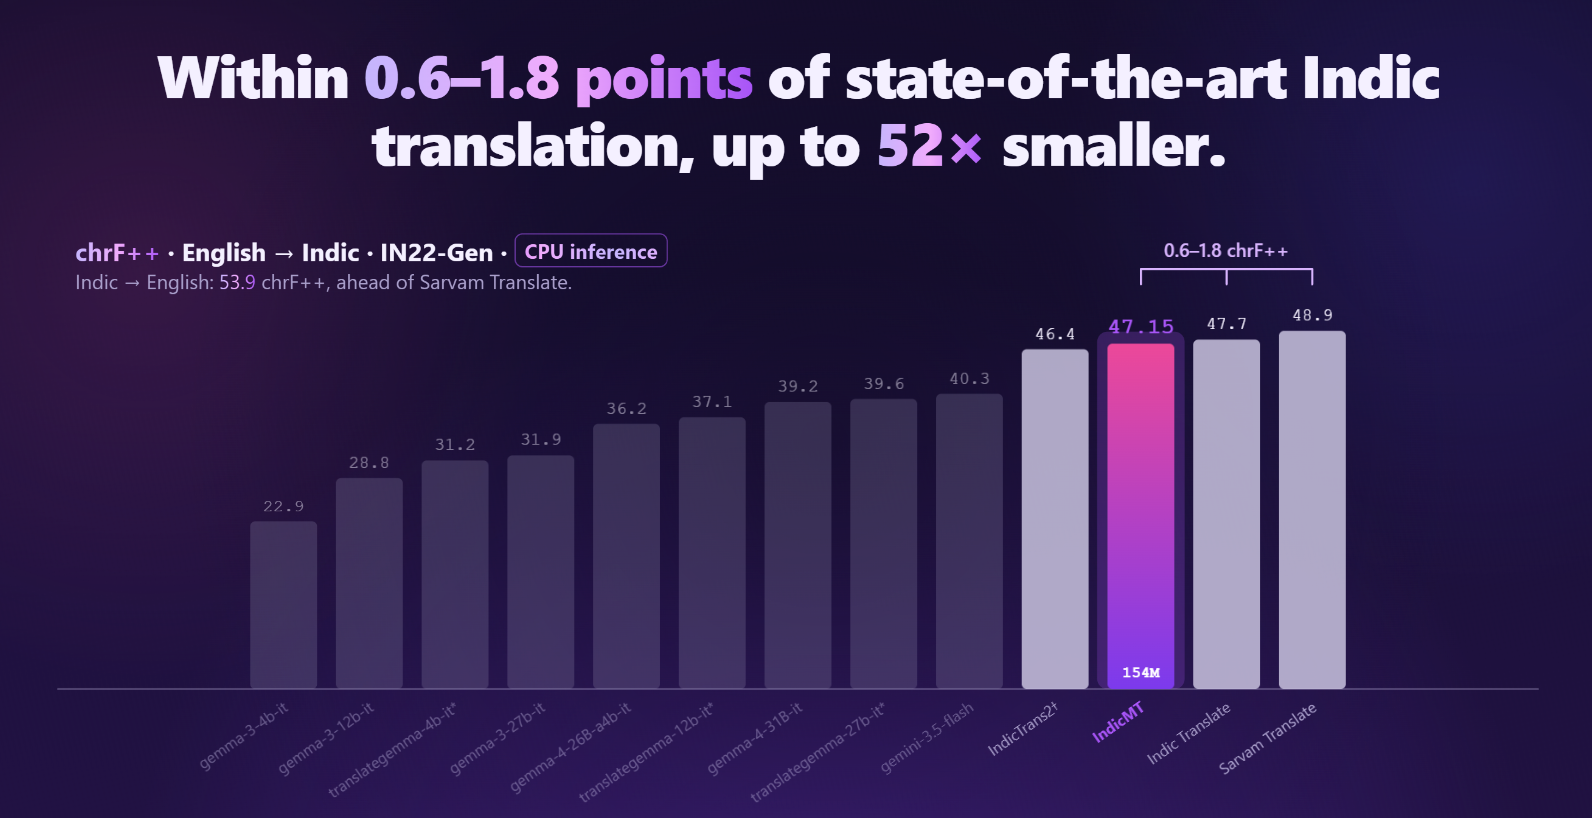
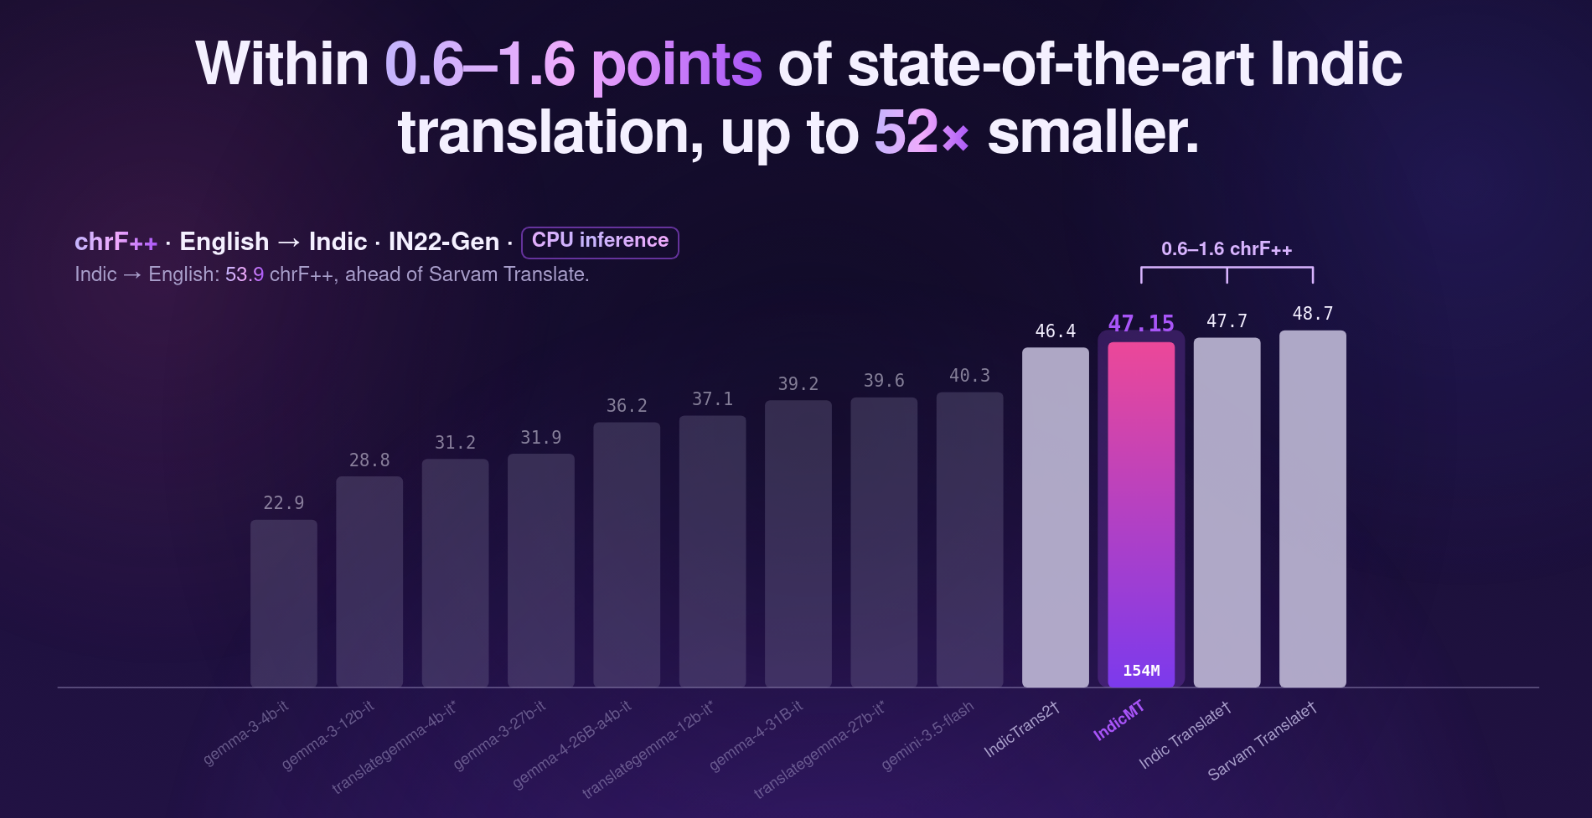
Report our runs of Indic Translate and Sarvam Translate

diff --git a/docs/evaluation.md b/docs/evaluation.md
@@ -91,34 +91,49 @@ single seed and have not been significance-tested. The release model was kept.
 
 ## 5. Against published systems (IN22-Gen only)
 
-Baselines are the published chrF++ scores from the `bodhan-ai/indic-translate` model card (read on 2026-09-19),
-except IndicTrans2, which we re-ran (section 6). The card's scores are **sentence-level with greedy decoding**. Ours
-and the re-run IndicTrans2 scores are **corpus-level with beam 5**. So the comparison is indicative, not exact. The
-card has no IN22-Conv baselines. The table is sorted by the mean of the two directions. A star marks a system that
+IndicTrans2, Indic Translate and Sarvam Translate are **our own runs** on both test sets (section 6 for IndicTrans2;
+Indic Translate and Sarvam Translate with vLLM, greedy decoding and each model's documented prompt), scored exactly like
+IndicMT: corpus-level chrF++, the same references, macro over 22 languages. **All other baselines are the published
+chrF++ scores from the `bodhan-ai/indic-translate` model page** (read on 2026-09-19), which are **sentence-level with
+greedy decoding** on IN22-Gen only, so the comparison with those rows is indicative, not exact. IndicMT is the
+CTranslate2 float32 model (beam 5). The table is sorted by the mean of the two directions. A star marks a system that
 covers only 16 of the 22 languages.
 
-| Rank | Model | en→xx | xx→en | Mean | Parameters |
-|---|---|---|---|---|---|
-| 1 | IndicTrans2 † | 46.39 | 62.48 | 54.44 | 1.1B |
-| 2 | Indic Translate | 47.70 | 60.40 | 54.05 | 7.94B |
-| 3 | gemini-3.5-flash | 40.30 | 66.60 | 53.45 | undisclosed |
-| 4 | Sarvam Translate | 48.90 | 52.40 | 50.65 | 4B |
-| 5 | **IndicMT (release model)** | **46.95** | **53.69** | **50.32** | 0.154B |
-| 6 | gemma-4-31B-it | 39.20 | 59.60 | 49.40 | 30.7B |
-| 7 | translategemma-27b-it * | 39.60 | 58.50 | 49.05 | 27B |
-| 8 | gemma-4-26B-a4b-it | 36.20 | 56.60 | 46.40 | 25.2B |
-| 9 | translategemma-12b-it * | 37.10 | 55.00 | 46.05 | 12B |
-| 10 | gemma-3-27b-it | 31.90 | 55.50 | 43.70 | 27.43B |
-| 11 | gemma-3-12b-it | 28.80 | 53.20 | 41.00 | 12.19B |
-| 12 | translategemma-4b-it * | 31.20 | 49.20 | 40.20 | 4B |
-| 13 | gemma-3-4b-it | 22.90 | 47.10 | 35.00 | 4.3B |
+| Rank | Model | en→xx | xx→en | Mean | Parameters | Source |
+|---|---|---|---|---|---|---|
+| 1 | IndicTrans2 1B | 46.39 | 62.48 | 54.44 | 1.1B | our run |
+| 2 | Indic Translate | 47.73 | 60.33 | 54.03 | 7.94B | our run |
+| 3 | gemini-3.5-flash | 40.30 | 66.60 | 53.45 | undisclosed | model page |
+| 4 | **IndicMT (release model)** | **47.15** | **53.87** | **50.51** | 0.154B | our run |
+| 5 | Sarvam Translate | 48.74 | 51.82 | 50.28 | 4B | our run |
+| 6 | gemma-4-31B-it | 39.20 | 59.60 | 49.40 | 30.7B | model page |
+| 7 | translategemma-27b-it * | 39.60 | 58.50 | 49.05 | 27B | model page |
+| 8 | gemma-4-26B-a4b-it | 36.20 | 56.60 | 46.40 | 25.2B | model page |
+| 9 | translategemma-12b-it * | 37.10 | 55.00 | 46.05 | 12B | model page |
+| 10 | gemma-3-27b-it | 31.90 | 55.50 | 43.70 | 27.43B | model page |
+| 11 | gemma-3-12b-it | 28.80 | 53.20 | 41.00 | 12.19B | model page |
+| 12 | translategemma-4b-it * | 31.20 | 49.20 | 40.20 | 4B | model page |
+| 13 | gemma-3-4b-it | 22.90 | 47.10 | 35.00 | 4.3B | model page |
 
-† Re-run by us with our protocol (beam 5, corpus-level chrF++). The model card lists 48.60 / 62.80.
+The model page lists 48.6 / 62.8 for IndicTrans2, 47.7 / 60.4 for Indic Translate and 48.9 / 52.4 for Sarvam
+Translate; under our protocol these are 46.39 / 62.48, 47.73 / 60.33 and 48.74 / 51.82.
 
-IndicMT ranks 5th of 13 on the mean, 0.92 above gemma-4-31B-it and 0.33 below Sarvam Translate. It is **3rd on
-en→xx**, behind Sarvam Translate (48.9, 1.95 higher) and Indic Translate (47.7, 0.75 higher), and 0.56 above the
-re-run IndicTrans2. It is 9th on xx→en, ahead of Sarvam Translate (52.4). It has 7.2 times fewer parameters than the
-1.1B IndicTrans2 and 26 times fewer than Sarvam Translate.
+IndicMT ranks 4th of 13 on the mean, 0.23 above Sarvam Translate. It is **3rd on en→xx**, behind Sarvam Translate
+(48.74, 1.59 higher) and Indic Translate (47.73, 0.58 higher), and 0.76 above IndicTrans2. It is 9th on xx→en, ahead of
+Sarvam Translate (51.82). It has 7.2 times fewer parameters than the 1.1B IndicTrans2, 26 times fewer than Sarvam
+Translate and 51.6 times fewer than Indic Translate.
+
+**IN22-Conv and BLEU (our runs).**
+
+| Model | Gen en→xx chrF++ / BLEU | Gen xx→en chrF++ / BLEU | Conv en→xx chrF++ / BLEU | Conv xx→en chrF++ / BLEU |
+|---|---|---|---|---|
+| IndicMT (CTranslate2 float32) | 47.15 / 19.19 | 53.87 / 29.19 | 43.15 / 15.73 | 50.59 / 28.36 |
+| IndicTrans2 1B | 46.39 / 17.88 | 62.48 / 39.12 | 42.61 / 15.22 | 55.63 / 34.02 |
+| Indic Translate | 47.73 / 19.37 | 60.33 / 36.43 | 45.04 / 17.30 | 55.10 / 33.37 |
+| Sarvam Translate | 48.74 / 20.67 | 51.82 / 28.32 | 45.71 / 17.95 | 49.77 / 27.51 |
+
+On IN22-Conv en→xx IndicMT is 1.89 chrF++ below Indic Translate and 2.56 below Sarvam Translate; on xx→en it is ahead
+of Sarvam Translate on both test sets.
 
 ### Model sizes
 
@@ -169,47 +184,47 @@ IndicTrans2 1B has 1.1B parameters, 7.2 times more than IndicMT. The IN22-Conv c
 
 ## 7. Results by language
 
-chrF++ of the release model on both test sets, with the best published IN22-Gen score among the three systems whose
-card lists per-language numbers (Indic Translate, Sarvam Translate, IndicTrans2; model-card values):
+chrF++ of the release model (CTranslate2 float32, beam 5) on both test sets, with the best IN22-Gen score among our
+runs of the three baselines with per-language numbers (Indic Translate, Sarvam Translate, IndicTrans2 1B), all scored
+with the same protocol:
 
-| Language | en→xx Gen | en→xx Conv | xx→en Gen | xx→en Conv | en→xx best published (Gen) | xx→en best published (Gen) |
+| Language | en→xx Gen | en→xx Conv | xx→en Gen | xx→en Conv | en→xx best baseline (Gen) | xx→en best baseline (Gen) |
 |---|---|---|---|---|---|---|
-| Assamese | 44.53 | 44.20 | 55.78 | 55.41 | 47.1 | 65.8 |
-| Bengali | 47.18 | 44.68 | 54.23 | 53.41 | 51.8 | 63.2 |
-| Bodo | 49.15 | 46.17 | 52.29 | 49.08 | 48.9 | 62.1 |
-| Dogri | 55.55 | 50.46 | 60.83 | 57.88 | 58.2 | 72.6 |
-| Gujarati | 50.77 | 50.09 | 57.84 | 56.40 | 53.5 | 66.5 |
-| Hindi | 53.12 | 47.18 | 56.77 | 55.13 | 56.7 | 65.4 |
-| Kannada | 48.96 | 31.70 | 55.17 | 43.00 | 52.2 | 64.2 |
-| Kashmiri | 32.89 | 27.30 | 50.20 | 46.91 | 40.2 | 60.4 |
-| Konkani | 43.40 | 41.24 | 49.60 | 45.23 | 45.2 | 59.2 |
-| Maithili | 49.57 | 43.85 | 56.51 | 51.88 | 50.5 | 64.8 |
-| Malayalam | 44.65 | 37.80 | 53.28 | 48.08 | 50.9 | 64.5 |
-| Manipuri | 45.60 | 41.48 | 50.13 | 46.29 | 45.5 | 57.9 |
-| Marathi | 48.47 | 45.74 | 54.77 | 52.68 | 51.3 | 63.7 |
-| Nepali | 49.53 | 49.54 | 58.69 | 57.01 | 49.9 | 67.7 |
-| Odia | 46.05 | 40.73 | 56.99 | 54.33 | 48.2 | 66.2 |
-| Punjabi | 47.11 | 52.44 | 53.66 | 56.02 | 50.6 | 63.4 |
-| Sanskrit | 36.82 | 34.23 | 45.59 | 41.76 | 38.8 | 54.8 |
-| Santali | 40.65 | 42.67 | 43.43 | 44.90 | 40.9 | 47.3 |
-| Sindhi | 39.47 | 37.03 | 50.26 | 45.81 | 39.1 | 57.3 |
-| Tamil | 47.43 | 37.91 | 50.23 | 41.65 | 50.9 | 59.8 |
-| Telugu | 49.42 | 42.64 | 53.87 | 47.24 | 52.4 | 64.8 |
-| Urdu | 62.61 | 56.33 | 60.99 | 58.29 | 68.2 | 73.0 |
+| Assamese | 44.74 | 44.58 | 56.02 | 55.39 | 46.40 | 65.13 |
+| Bengali | 47.24 | 45.01 | 54.39 | 53.75 | 49.47 | 62.04 |
+| Bodo | 49.30 | 46.39 | 52.34 | 49.18 | 48.81 | 60.81 |
+| Dogri | 55.86 | 50.64 | 61.04 | 58.29 | 58.26 | 71.97 |
+| Gujarati | 50.88 | 50.21 | 57.92 | 56.42 | 53.09 | 66.42 |
+| Hindi | 53.19 | 47.14 | 56.99 | 55.34 | 56.56 | 64.51 |
+| Kannada | 49.06 | 31.70 | 55.31 | 43.40 | 52.07 | 64.50 |
+| Kashmiri | 32.99 | 27.55 | 50.47 | 47.18 | 35.12 | 60.44 |
+| Konkani | 43.51 | 41.41 | 49.67 | 45.31 | 44.98 | 57.92 |
+| Maithili | 49.69 | 44.08 | 56.72 | 51.92 | 50.45 | 65.86 |
+| Malayalam | 44.83 | 38.19 | 53.35 | 48.49 | 47.69 | 63.98 |
+| Manipuri | 46.26 | 41.64 | 50.29 | 46.54 | 45.29 | 59.95 |
+| Marathi | 48.63 | 46.08 | 54.94 | 52.94 | 51.41 | 64.68 |
+| Nepali | 49.68 | 49.60 | 59.00 | 57.08 | 50.19 | 69.28 |
+| Odia | 46.23 | 40.87 | 57.14 | 54.57 | 48.11 | 65.88 |
+| Punjabi | 47.12 | 52.55 | 53.73 | 56.25 | 48.36 | 59.66 |
+| Sanskrit | 37.26 | 34.35 | 45.86 | 41.76 | 38.07 | 54.40 |
+| Santali | 41.11 | 42.99 | 43.72 | 45.11 | 40.87 | 47.61 |
+| Sindhi | 39.73 | 37.11 | 50.54 | 46.16 | 38.91 | 55.58 |
+| Tamil | 47.63 | 38.19 | 50.60 | 41.90 | 51.05 | 59.79 |
+| Telugu | 49.58 | 42.56 | 54.03 | 47.61 | 51.77 | 64.75 |
+| Urdu | 62.73 | 56.44 | 61.04 | 58.34 | 66.69 | 73.04 |
 
-- **en→xx is at or near the best published system in several low-resource languages.** On IN22-Gen en→xx the model
-  trails the best published card score by a median of 2.69 chrF++. It is above it for Sindhi (+0.37), Bodo (+0.25)
-  and Manipuri (+0.10), and within 1 for Santali (0.25), Nepali (0.37) and Maithili (0.93). The card scores are
-  sentence-level and greedy, so differences this small are not meaningful. The largest gaps are Kashmiri (7.31),
-  Malayalam (6.25) and Urdu (5.59).
-- **xx→en trails further,** by a median of 9.21 (Santali 3.87 is the smallest; Urdu 12.01 the largest). Every model of
-  ours trained on both mined and human data reaches 53.69 to 55.07 here (section 8), whatever the fine-tuning, so the
-  gap is not specific to this checkpoint.
-- **Weakest directions:** English to Kashmiri (32.89 Gen, 27.30 Conv), English to Sanskrit (36.82) and Santali to
-  English (43.43). Sanskrit is the second-weakest en→xx direction, but its gap to the best published system (1.98) is
-  below the median, so the evidence does not single out the 128k vocabulary.
-- **Conversational en→xx is uneven.** IN22-Conv is lower than IN22-Gen for most languages, by 17.26 for Kannada and
-  9.52 for Tamil, but higher for Punjabi (+5.33) and Santali (+2.02). The causes have not been examined.
+- **en→xx is at or above the best baseline in several low-resource languages.** On IN22-Gen en→xx the model trails
+  the best of the three baselines by a median of 2.00 chrF++. It is above it for Manipuri (+0.96), Sindhi (+0.82),
+  Bodo (+0.48) and Santali (+0.24), and within 1 for Nepali (0.51), Maithili (0.76) and Sanskrit (0.82). The largest
+  gaps are Urdu (3.95), Tamil (3.42) and Hindi (3.37).
+- **xx→en trails further,** by a median of 9.12 (Santali 3.90 is the smallest; Urdu 11.99 the largest). Every model of
+  ours trained on both mined and human data reaches 53.69 to 55.07 here (OpenNMT-py scores, section 8), whatever the
+  fine-tuning, so the gap is not specific to this checkpoint.
+- **Weakest directions:** English to Kashmiri (32.99 Gen, 27.55 Conv), English to Sanskrit (37.26) and Santali to
+  English (43.72). Sanskrit is the second-weakest en→xx direction, but its gap to the best baseline (0.82) is well below
+  the median, so the evidence does not single out the 128k vocabulary.
+- **Conversational en→xx is uneven.** IN22-Conv is lower than IN22-Gen for most languages, by 17.35 for Kannada and
+  9.45 for Tamil, but higher for Punjabi (+5.43) and Santali (+1.88). The causes have not been examined.
 
 ## 8. Pre-training, fine-tuning and architecture runs
 

diff --git a/README.md b/README.md
@@ -67,9 +67,7 @@ human data without replay (step 1,800). Macro average over the 22 languages, chr
 ### Compared with other systems
 
 chrF++, macro average over the 22 languages. **IndicMT (CTranslate2 float32), IndicTrans2, Indic Translate and Sarvam Translate are from
-our own runs** (corpus-level chrF++; beam 5 for IndicMT and IndicTrans2, greedy decoding for the two LLMs). Our runs
-of Indic Translate and Sarvam Translate are in progress; until they finish, their rows show the scores from the Indic
-Translate page. **All other baselines are taken from the
+our own runs** (corpus-level chrF++; beam 5 for IndicMT and IndicTrans2, greedy decoding for the two LLMs). **All other baselines are taken from the
 [`bodhan-ai/indic-translate`](https://huggingface.co/bodhan-ai/indic-translate) model page** (read on 2026-09-19),
 which reports sentence-level chrF++ with greedy decoding on IN22-Gen only, so those rows are indicative. A star marks a
 system that covers only 16 of the 22 languages.
@@ -78,8 +76,8 @@ system that covers only 16 of the 22 languages.
 |---|---:|---:|---:|---:|---:|---|
 | **IndicMT (release model)** | **0.154B** | **47.15** | **53.87** | **43.15** | **50.59** | our run |
 | IndicTrans2 1B | 1.1B | 46.39 | 62.48 | 42.61 | 55.63 | our run |
-| Indic Translate | 7.94B | 47.70 | 60.40 | | | Indic Translate page (our run in progress) |
-| Sarvam Translate | 4B | 48.90 | 52.40 | | | Indic Translate page (our run in progress) |
+| Indic Translate | 7.94B | 47.73 | 60.33 | 45.04 | 55.10 | our run |
+| Sarvam Translate | 4B | 48.74 | 51.82 | 45.71 | 49.77 | our run |
 | gemini-3.5-flash | undisclosed | 40.30 | 66.60 | | | Indic Translate page |
 | gemma-4-31B-it | 30.7B | 39.20 | 59.60 | | | Indic Translate page |
 | translategemma-27b-it * | 27B | 39.60 | 58.50 | | | Indic Translate page |
@@ -89,6 +87,11 @@ system that covers only 16 of the 22 languages.
 | gemma-3-12b-it | 12.19B | 28.80 | 53.20 | | | Indic Translate page |
 | translategemma-4b-it * | 4B | 31.20 | 49.20 | | | Indic Translate page |
 | gemma-3-4b-it | 4.3B | 22.90 | 47.10 | | | Indic Translate page |
+
+Under the same scoring, IndicMT is 0.58 chrF++ below Indic Translate and 1.59 below Sarvam Translate on IN22-Gen
+en→xx (1.89 and 2.56 below on IN22-Conv), and ahead of Sarvam Translate on xx→en on both test sets. BLEU from our runs
+(IN22-Gen en→xx / xx→en, IN22-Conv en→xx / xx→en): IndicMT 19.19 / 29.19, 15.73 / 28.36; IndicTrans2 17.88 / 39.12,
+15.22 / 34.02; Indic Translate 19.37 / 36.43, 17.30 / 33.37; Sarvam Translate 20.67 / 28.32, 17.95 / 27.51.
 
 Parameter counts come from each model's public page; see [`docs/evaluation.md`](docs/evaluation.md#5-against-published-systems-in22-gen-only).
 
@@ -112,7 +115,7 @@ bootstrap, pooled p = 0.18 en→xx and 0.15 xx→en for int8; 0 of 22 directions
 
 ### Results by language (release model)
 
-chrF++ of the CTranslate2 float32 model (beam 5) on IN22-Gen and IN22-Conv. The fuller version, with the best published score per
+chrF++ of the CTranslate2 float32 model (beam 5) on IN22-Gen and IN22-Conv. The fuller version, with the best baseline score per
 language, is in [`docs/evaluation.md`](docs/evaluation.md).
 
 <details>
@@ -313,7 +316,7 @@ GPU-hours are GPUs × wall-clock hours, from the cluster's job accounting. Train
 | IN22-Gen and IN22-Conv evaluation of one checkpoint, 88 directions, OpenNMT-py | 2 × A40 | 0.5 |
 | chrF++ trajectory: the same evaluation for 63 checkpoints (54 pre-training up to step 13,600, 9 fine-tuning up to step 1,800) | 2 × A40 | 32 |
 | IN22-Gen and IN22-Conv evaluation, CTranslate2 float32 (reported scores) | CPU, 16 cores | 0 (about 1 hour) |
-| LLM judge, English→Indic | 2 × A40 | about 8 |
+| LLM judge, English→Indic | 2 × A40 | 7.7 |
 | **Total** (the trajectory includes the single checkpoint) | | **about 150** |
 
 **Whole project.** Everything run for IndicMT, including models that were not released:
@@ -325,11 +328,11 @@ GPU-hours are GPUs × wall-clock hours, from the cluster's job accounting. Train
 | IN22 evaluation of checkpoints | 473 |
 | Fine-tuning (with and without replay, deeper models) | 248 |
 | LLM judge | 135 |
-| Baseline runs (IndicTrans2, Indic Translate, Sarvam Translate) | 5 |
+| Baseline runs (IndicTrans2, Indic Translate, Sarvam Translate) | 15 |
 | Setup and tests | 4 |
-| **Total** | **3,119** |
+| **Total** | **3,129** |
 
-By GPU type: 2,507 A100, 479 A40, 133 L40. Figures are as of 2026-10-19 and include jobs still running.
+By GPU type: 2,507 A100, 479 A40, 143 L40.
 
 ## Links
 

diff --git a/huggingface/README.md b/huggingface/README.md
@@ -296,8 +296,7 @@ int16 and int8 are **not significantly different from float32** on IN22-Gen, and
 <h3 id="compared-with-other-systems" style="color:#A855F7">Compared with other systems</h3>
 
 **IndicMT (CTranslate2 float32), IndicTrans2, Indic Translate and Sarvam Translate are from our own runs** (corpus-level chrF++; beam 5 for
-IndicMT and IndicTrans2, greedy decoding for the two LLMs). Our runs of Indic Translate and Sarvam Translate are in
-progress; until they finish, their rows show the scores from the Indic Translate page. **All other baselines are taken
+IndicMT and IndicTrans2, greedy decoding for the two LLMs). **All other baselines are taken
 from the
 [`bodhan-ai/indic-translate`](https://huggingface.co/bodhan-ai/indic-translate) model page** (read on 2026-09-19),
 which reports sentence-level chrF++ with greedy decoding on IN22-Gen only, so those rows are indicative. A star marks a
@@ -307,8 +306,8 @@ system that covers only 16 of the 22 languages.
 |---|---:|---:|---:|---:|---:|---|
 | **IndicMT** | **0.154B** | **47.15** | **53.87** | **43.15** | **50.59** | our run |
 | IndicTrans2 1B | 1.1B | 46.39 | 62.48 | 42.61 | 55.63 | our run |
-| Indic Translate | 7.94B | 47.70 | 60.40 | | | Indic Translate page (our run in progress) |
-| Sarvam Translate | 4B | 48.90 | 52.40 | | | Indic Translate page (our run in progress) |
+| Indic Translate | 7.94B | 47.73 | 60.33 | 45.04 | 55.10 | our run |
+| Sarvam Translate | 4B | 48.74 | 51.82 | 45.71 | 49.77 | our run |
 | gemini-3.5-flash | undisclosed | 40.30 | 66.60 | | | Indic Translate page |
 | gemma-4-31B-it | 30.7B | 39.20 | 59.60 | | | Indic Translate page |
 | translategemma-27b-it * | 27B | 39.60 | 58.50 | | | Indic Translate page |
@@ -318,6 +317,11 @@ system that covers only 16 of the 22 languages.
 | gemma-3-12b-it | 12.19B | 28.80 | 53.20 | | | Indic Translate page |
 | translategemma-4b-it * | 4B | 31.20 | 49.20 | | | Indic Translate page |
 | gemma-3-4b-it | 4.3B | 22.90 | 47.10 | | | Indic Translate page |
+
+Under the same scoring, IndicMT is 0.58 chrF++ below Indic Translate and 1.59 below Sarvam Translate on IN22-Gen
+en→xx (1.89 and 2.56 below on IN22-Conv), and ahead of Sarvam Translate on xx→en on both test sets. BLEU from our runs
+(IN22-Gen en→xx / xx→en, IN22-Conv en→xx / xx→en): IndicMT 19.19 / 29.19, 15.73 / 28.36; IndicTrans2 17.88 / 39.12,
+15.22 / 34.02; Indic Translate 19.37 / 36.43, 17.30 / 33.37; Sarvam Translate 20.67 / 28.32, 17.95 / 27.51.
 
 <details>
 <summary>Per-language chrF++ (CTranslate2 float32, beam 5)</summary>
@@ -348,6 +352,37 @@ system that covers only 16 of the 22 languages.
 | Urdu | 62.73 | 61.04 | 56.44 | 58.34 |
 
 </details>
+
+<h2 id="compute" style="color:#7C3AED">Compute</h2>
+
+GPU-hours are GPUs × wall-clock hours, from the cluster's job accounting. Training ran on 4 × A100 80 GB; evaluation and the LLM judge ran on A40 and L40 GPUs.
+
+**Release model only.** What it takes to reproduce the released model:
+
+| Stage | GPUs | GPU-hours |
+|---|---|---:|
+| Pre-training, combined data, to step 13,600 | 4 × A100 | 100 |
+| Fine-tuning on human data, to step 1,800 | 4 × A100 | 11 |
+| IN22-Gen and IN22-Conv evaluation of one checkpoint, 88 directions, OpenNMT-py | 2 × A40 | 0.5 |
+| chrF++ trajectory: the same evaluation for 63 checkpoints (54 pre-training up to step 13,600, 9 fine-tuning up to step 1,800) | 2 × A40 | 32 |
+| IN22-Gen and IN22-Conv evaluation, CTranslate2 float32 (reported scores) | CPU, 16 cores | 0 (about 1 hour) |
+| LLM judge, English→Indic | 2 × A40 | 7.7 |
+| **Total** (the trajectory includes the single checkpoint) | | **about 150** |
+
+**Whole project.** Everything run for IndicMT, including models that were not released:
+
+| Work | GPU-hours |
+|---|---:|
+| Pre-training (human, mined and combined data) | 1,539 |
+| Deeper architectures (12+18 and 18+18 layers) | 715 |
+| IN22 evaluation of checkpoints | 473 |
+| Fine-tuning (with and without replay, deeper models) | 248 |
+| LLM judge | 135 |
+| Baseline runs (IndicTrans2, Indic Translate, Sarvam Translate) | 15 |
+| Setup and tests | 4 |
+| **Total** | **3,129** |
+
+By GPU type: 2,507 A100, 479 A40, 143 L40.
 
 <h2 id="limitations" style="color:#7C3AED">Limitations</h2>
 

diff --git a/docs/README.md b/docs/README.md
@@ -10,7 +10,7 @@ each directory (linked from the [top-level README](../README.md)).
 | [mixing.md](mixing.md) | Temperature-sampled mixing: the formula, why size is counted in words, the two mixtures, per-language results. |
 | [tokenizer.md](tokenizer.md) | The SentencePiece corpus, Zipf and Heaps analysis, the vocabulary-size sweep (why 128k), external tokenizers. |
 | [training.md](training.md) | The model, the three data arms, stopping by hand, checkpoint selection, the source-encoding fix (and the English-to-Indic decline it caused), fine-tuning, the architecture study. |
-| [evaluation.md](evaluation.md) | How scores are computed, the source-encoding fix, chrF++ and BLEU results, comparison with 12 published systems, IndicTrans2 under the same protocol, per-language results, fine-tuning and architecture results, the LLM judge. |
+| [evaluation.md](evaluation.md) | How scores are computed, the source-encoding fix, chrF++ and BLEU results, comparison with 12 systems (IndicTrans2, Indic Translate and Sarvam Translate run under the same protocol), per-language results, fine-tuning and architecture results, the LLM judge. |
 | [deployment.md](deployment.md) | CTranslate2 conversion, quantization (float32, int16, int8) with a significance test, the API and frontend, the container and the load test. |
 
 ## Conventions

diff --git a/docs/tokenizer.md b/docs/tokenizer.md
@@ -93,8 +93,8 @@ half of it.
 
 One nuance is kept visible. **Sanskrit** is the worst language from 32k upward, and it keeps improving through 192k
 after the average has flattened. That is a real gain, but it lands on one language while the cost lands on the whole
-model. After training, Sanskrit is the second-weakest English-to-Indic direction (36.82 chrF++ on IN22-Gen), but it
-trails the best published system by 1.98, below the median gap of 2.69 across languages. So the evaluation does not
+model. After training, Sanskrit is the second-weakest English-to-Indic direction (37.26 chrF++ on IN22-Gen), but it
+trails the best of our three baseline runs by 0.82, well below the median gap of 2.00 across languages. So the evaluation does not
 single out the vocabulary.
 
 ## 4. Comparison with external tokenizers
